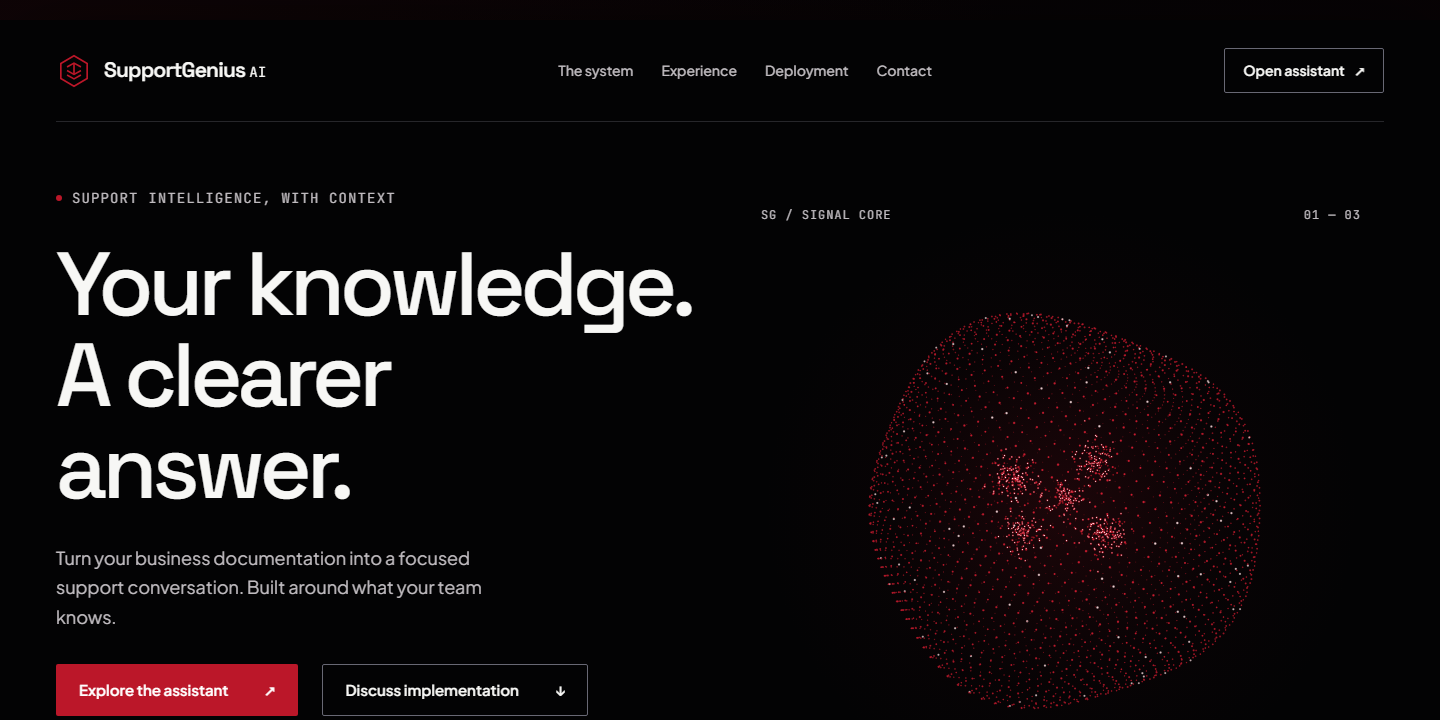
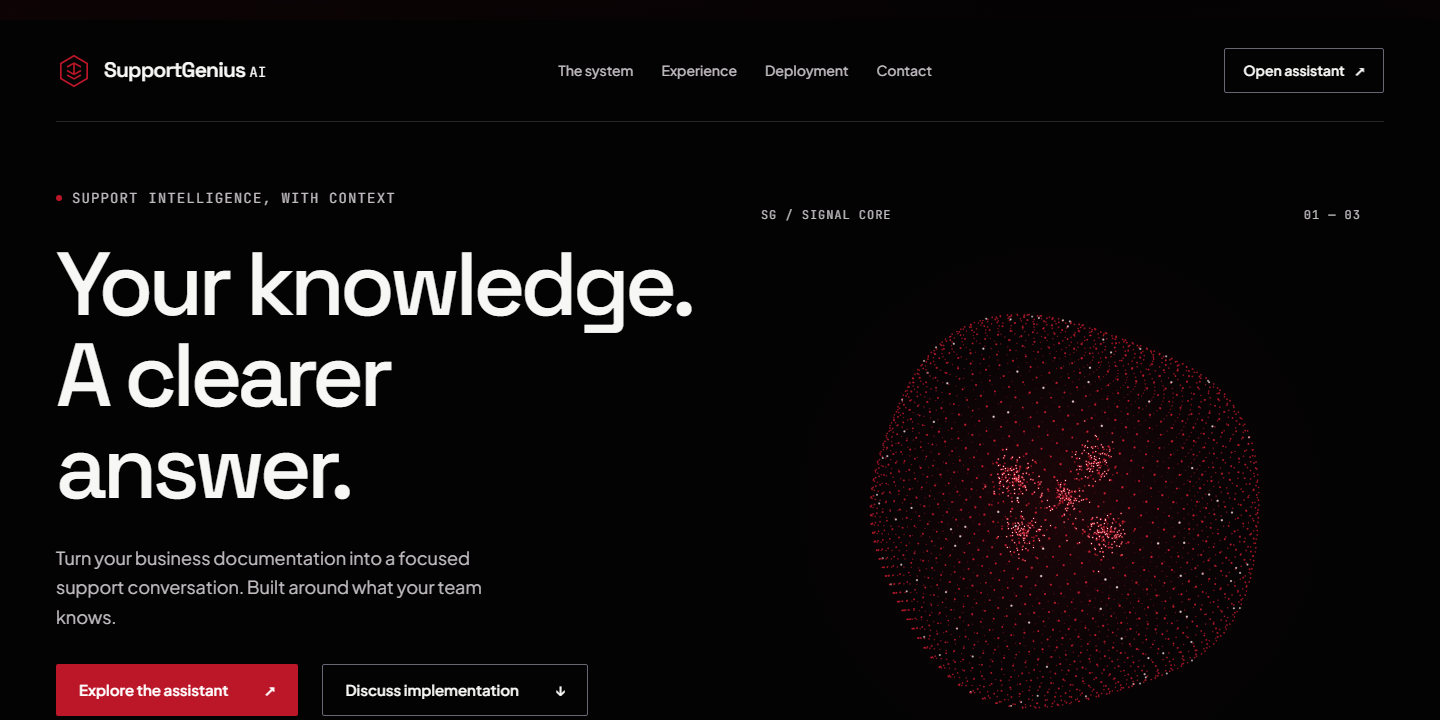
docs(design): refresh README branding, integrated screenshots, asset accounting, and contact touchpoints

Changed region(s): [[0.5938, 0.4278, 0.875, 0.9778]]

diff --git a/tests/browser/closing-footer.spec.js b/tests/browser/closing-footer.spec.js
@@ -358,7 +358,27 @@ test.describe('Task 08: Closing Journey & Branded Footer (.closing & .site-foote
   });
 
   test('13. Capture visual evidence of unified closing contact, footer, and hero actions', async ({ page }) => {
-    // 1. Desktop 1440x900
+    // 1. Desktop 1440x1000 Integrated Hero Capture
+    await page.setViewportSize({ width: 1440, height: 1000 });
+    await page.goto('/');
+
+    await page.screenshot({
+      path: 'docs/design-v3/screenshots/landing-desktop-1440.png',
+      clip: { x: 0, y: 0, width: 1440, height: 1000 },
+    });
+
+    // Integrated Console Capture in Demo Mode (1440x1000)
+    await page.goto('/console/');
+    await expect(page.locator('#input')).toBeEnabled();
+    await page.locator('#input').fill('What is the returns policy and processing timeframe?');
+    await page.locator('#send-btn').click();
+    await expect(page.locator('#chat-messages')).toContainText('refunds are processed within 3 business days');
+    await page.screenshot({
+      path: 'docs/design-v3/screenshots/console-answered-1440.png',
+      clip: { x: 0, y: 0, width: 1440, height: 1000 },
+    });
+
+    // 2. Desktop 1440x900 Detailed Section Captures
     await page.setViewportSize({ width: 1440, height: 900 });
     await page.goto('/');
 
@@ -387,7 +407,7 @@ test.describe('Task 08: Closing Journey & Branded Footer (.closing & .site-foote
       path: 'docs/design-v3/screenshots/contact-footer-desktop.png',
     });
 
-    // 2. Mobile 390x844
+    // 3. Mobile 390x844
     await page.setViewportSize({ width: 390, height: 844 });
     await page.goto('/');
 

diff --git a/README.md b/README.md
@@ -4,13 +4,13 @@
 
 **Knowledge, made clear.** A document-based customer support assistant built with Express and vanilla JavaScript for tailored client deployments.
 
-SupportGenius AI retrieves context from configured business documents and generates replies through a selected model provider. Signal Desk keeps the conversation, usage estimates, and recovery controls in one focused interface.
+SupportGenius AI retrieves context from configured business documents and generates replies through a selected model provider. Signal Desk keeps the conversation, usage estimates, and recovery controls in one focused interface, while the Crimson Signal presentation showcases product capabilities, system architecture, and client implementation enquiries.
 
-[Quick start](#quick-start) · [Architecture](#architecture) · [Verification](#verification) · [Deployment](docs/deployment.md) · [Design system](design.md)
+[Quick start](#quick-start) · [Architecture](#architecture) · [Verification](#verification) · [Deployment](docs/deployment.md) · [Design system](design.md) · [Implementation enquiries](#client-implementation-enquiries)
 
-![Signal Desk console in local demo mode](docs/design-v2/screenshots/console-answered-1440.png)
+![Signal Desk console in local demo mode](docs/design-v3/screenshots/console-answered-1440.png)
 
-*Integrated Signal Desk workspace, captured from the live application at commit `0f90bb1` in local demo mode (`APP_MODE=demo`, viewport 1440×1000). Demonstrates clean answered state, session cost estimate, and recovery controls. Contains sample content; does not establish real-provider answer quality.*
+*Integrated Signal Desk workspace, captured from the live application at commit `1756167` in local demo mode (`APP_MODE=demo`, viewport 1440×1000). Demonstrates clean answered state with static crimson avatar mark, session cost estimate, and recovery controls. Contains sample fixture content; does not establish real-provider answer quality.*
 
 ## Current capabilities
 
@@ -22,6 +22,9 @@ SupportGenius AI retrieves context from configured business documents and genera
 | Anonymous signed-cookie sessions | Not customer authentication; in-memory state expires and resets on restart |
 | Bounded requests and recoverable errors | No guarantee of answer accuracy or provider availability |
 | Usage/cost estimates | Estimates may be unavailable; not binding billing records |
+| Truthful console lifecycle | Status driven by real client state (`idle`, `pending`, `settling`, `error`, `recovery`); no fake typing |
+| Accessible motion controls | Default-on motion after first paint for eligible visible scenes; persistent pause preference (`sg_motion_v1`); OS reduced-motion override |
+| Implementation enquiries | Direct email touchpoint (`#implementation-contact`); opens visitor email client without server form storage |
 
 Customer actions, live integrations, source-citation delivery, durable transcripts, and multi-tenant accounts are outside the current release. Retrieval provides context; review answer quality against known questions before client rollout.
 
@@ -35,7 +38,7 @@ cd SupportGeniusAI
 npm ci
 ```
 
-If you already have a checkout, preserve any uncommitted work. The Signal Architecture design is integrated on branch `design/signal-architecture-v2`.
+If you already have a checkout, preserve any uncommitted work. The Crimson Signal design enhancements are integrated on branch `design/crimson-signal-v3`.
 
 Copy `.env.example` to `.env`:
 
@@ -117,21 +120,23 @@ npx playwright install chromium
 npm run test:browser
 ```
 
-The browser configuration launches an isolated local server on port `3888` in demo mode. Tests verify session ownership, origin enforcement, single-flight request gating, CSP compliance, error recovery, and axe-core accessibility.
+The browser configuration launches an isolated local server on port `3888` in demo mode. Tests verify session ownership, origin enforcement, single-flight request gating, CSP compliance, error recovery, motion policy synchronization, and axe-core accessibility.
 
 ### Verified Suite Results
 
-On branch `design/signal-architecture-v2`:
+On branch `design/crimson-signal-v3`:
 - **Vitest unit & API contract suite**: Passed **151 tests in 16 files** (exit 0).
-- **Playwright browser integration suite**: Passed **111 tests across 8 suites** (exit 0):
-  - `closing-footer.spec.js` (9/9)
-  - `console.spec.js` (50/50 — includes 320px responsive overflow regression test in empty and answered states)
-  - `deployment.spec.js` (7/7 — corrected subtotal)
+- **Playwright browser integration suite**: Passed **134 tests across 10 suites** (exit 0):
+  - `closing-footer.spec.js` (13/13 — includes desktop capture and unified closing layout verification)
+  - `console.spec.js` (50/50 — includes 320px responsive overflow regression in empty and answered states)
+  - `deployment.spec.js` (7/7)
   - `experience.spec.js` (9/9)
   - `marketing.spec.js` (8/8 — includes native anchor URL fragment and history preservation)
+  - `network-texture.spec.js` (7/7 — sparse background decoration and motion policy coordination)
   - `orb.spec.js` (8/8)
-  - `signal-core.spec.js` (13/13 — includes failed enhancement module fallback test)
+  - `signal-core.spec.js` (16/16 — includes WebGL particle envelope, tilt interaction, and fallback tests)
   - `system-chapters.spec.js` (7/7)
+  - `system-orbits.spec.js` (7/7 — rotating orbits and motion policy pause/resume synchronization)
 - **Accessibility**: 0 serious or critical axe-core findings across both routes.
 
 ### Lab Performance & Asset Footprint
@@ -139,37 +144,85 @@ On branch `design/signal-architecture-v2`:
 Measured on unthrottled loopback Chrome:
 - **Landing page (`/`)**: Lab LCP 484 ms, Lab CLS 0.003
 - **Signal Desk console (`/console/`)**: Lab LCP 160 ms, Lab CLS 0.0119
-- **Landing stylesheet footprint**: `brand.css` (13.45 KB / 2.26 KB estimated gzip), `marketing.css` (29.68 KB / 4.90 KB estimated gzip)
-- **Console stylesheet footprint**: `styles.css` (40.37 KB / 6.73 KB estimated gzip), `brand.css` (13.45 KB / 2.26 KB estimated gzip)
-- **Landing JavaScript (eager modules)**: `landing.js` (5.63 KB / 1.68 KB estimated gzip), `marketing/chapters.js` (1.01 KB / 0.45 KB estimated gzip), `marketing/examples.js` (1.87 KB / 0.78 KB estimated gzip). Optional deferred WebGL: `marketing/signal-core.js` (5.45 KB / 2.08 KB estimated gzip).
-- **Console JavaScript**: `app.js` (28.64 KB / 6.59 KB estimated gzip), `chat-state.js` (2.25 KB / 0.68 KB estimated gzip)
-- **Separately reported static assets**: Latin font subsets (70.80 KB across 3 WOFF2 files in `client/assets/fonts/`), hero SVG poster (`client/assets/brand/signal-core-poster.svg`, 43.48 KB raw).
 
-*Performance & transfer note*: All gzip values are software-calculated gzip estimates, not measured wire transfers with live HTTP compression headers. The figures are unthrottled local lab observations and do not establish real-world mobile cellular network performance, hardware variability, or field INP. See [design verification](docs/design-v2/verification.md) for detailed observations and evidence bounds.
+#### Exact Participating Asset Footprint
+
+| Category | File | Disk Size (Raw) | Software Gzip Estimate |
+| :--- | :--- | :--- | :--- |
+| **Eager Landing JS** | `client/landing.js` | 15.14 KB (15,142 B) | 3.35 KB (3,351 B) |
+| **Eager Landing JS** | `client/marketing/chapters.js` | 3.49 KB (3,494 B) | 1.16 KB (1,160 B) |
+| **Eager Landing JS** | `client/marketing/examples.js` | 1.97 KB (1,968 B) | 0.81 KB (812 B) |
+| **Eager Landing JS** | `client/marketing/motion-policy.js` | 5.21 KB (5,206 B) | 1.69 KB (1,692 B) |
+| *Eager Landing JS Subtotal* | *4 modules* | **25.81 KB (25,810 B)** | **7.02 KB (7,015 B)** |
+| **Deferred Landing JS** | `client/marketing/signal-core.js` | 18.44 KB (18,438 B) | 5.15 KB (5,153 B) |
+| **Deferred Landing JS** | `client/marketing/network-texture.js` | 8.82 KB (8,817 B) | 2.73 KB (2,727 B) |
+| *Deferred Landing JS Subtotal* | *2 modules* | **27.26 KB (27,255 B)** | **7.88 KB (7,880 B)** |
+| **Console JS** | `client/app.js` | 29.86 KB (29,856 B) | 6.96 KB (6,955 B) |
+| **Console JS** | `client/chat-state.js` | 2.31 KB (2,309 B) | 0.70 KB (703 B) |
+| **Console JS** | `client/orb.js` | 10.80 KB (10,797 B) | 2.91 KB (2,906 B) |
+| **Console JS** | `client/marketing/motion-policy.js` | 5.21 KB (5,206 B) | 1.69 KB (1,692 B) |
+| *Console JS Subtotal* | *4 modules* | **48.17 KB (48,168 B)** | **12.26 KB (12,256 B)** |
+| **Stylesheets** | `client/brand.css` | 17.86 KB (17,857 B) | 2.74 KB (2,743 B) |
+| **Stylesheets** | `client/marketing.css` | 42.60 KB (42,600 B) | 6.44 KB (6,437 B) |
+| **Stylesheets** | `client/styles.css` | 42.32 KB (42,322 B) | 7.17 KB (7,168 B) |
+| *Stylesheets Subtotal* | *3 CSS files* | **102.78 KB (102,779 B)** | **16.35 KB (16,348 B)** |
+| **Static Fonts** | `client/assets/fonts/display-1.woff2` | 22.29 KB (22,288 B) | WOFF2 compressed |
+| **Static Fonts** | `client/assets/fonts/body-1.woff2` | 26.71 KB (27,348 B) | WOFF2 compressed |
+| **Static Fonts** | `client/assets/fonts/mono-1.woff2` | 20.67 KB (21,168 B) | WOFF2 compressed |
+| *Static Fonts Subtotal* | *3 WOFF2 subsets* | **69.14 KB (70,804 B)** | *Pre-compressed* |
+| **Vector Artwork / Posters** | `client/assets/brand/signal-core-poster.svg` | 71.41 KB (71,408 B) | 10.66 KB (10,656 B) |
+| **Vector Artwork / Posters** | `client/assets/brand/closing-sphere-poster.svg` | 10.16 KB (10,155 B) | 2.44 KB (2,442 B) |
+| **Vector Artwork / Posters** | `client/assets/brand/network-texture-poster.svg` | 4.17 KB (4,167 B) | 0.96 KB (964 B) |
+| **Vector Artwork / Posters** | `client/assets/brand/avatar-sphere.svg` | 1.31 KB (1,307 B) | 0.57 KB (570 B) |
+| **Vector Artwork / Posters** | `client/assets/brand/supportgenius-mark.svg` | 0.37 KB (368 B) | 0.23 KB (227 B) |
+| **Vector Artwork / Posters** | `client/assets/brand/favicon.svg` | 0.37 KB (368 B) | 0.23 KB (227 B) |
+
+*Performance & transfer note*: All gzip values are software-calculated estimates using Deflate/Gzip compression, not measured HTTP wire transfers with live compression headers. Local lab observations do not establish real-world mobile cellular network performance, diverse hardware execution, or field INP. The system does not claim award readiness or public deployment status. See [design verification](docs/design-v2/verification.md) for detailed observations and evidence bounds.
 
 ## Visual design & integrated interface
 
-The **Signal Architecture** redesign establishes an original signal-prism identity, a graphite palette, an architectural page shell, and a native WebGL point sculpture with static SVG poster fallback.
+The **Crimson Signal** design language establishes a refined signal-prism identity, deep crimson and garnet accents (`#931b32`, `#6b1424`), an ink-black foundational surface (`#0f0b0d`), warm paper interlude sections (`#fbf8f5`), and a kinetic WebGL point sculpture with static SVG poster fallback.
 
-![SupportGenius AI integrated marketing landing page](docs/design-v2/screenshots/landing-desktop-1440.png)
+![SupportGenius AI integrated marketing landing page](docs/design-v3/screenshots/landing-desktop-1440.png)
 
-*Integrated marketing landing page, captured from the live application at commit `284a08b` in local demo mode (`APP_MODE=demo`, viewport 1440×1000). Shows the static SVG hero sculpture, capability strip, and architectural page structure.*
+*Integrated marketing landing page, captured from the live application at commit `1756167` in local demo mode (`APP_MODE=demo`, viewport 1440×1000). Shows the animated crimson hero sculpture, capability bar, and architectural layout.*
+
+![SupportGenius AI closing implementation section](docs/design-v3/screenshots/closing-contact-desktop.png)
+
+*Unified closing section, captured from the live application at commit `1756167` in local demo mode (`APP_MODE=demo`, viewport 1440×1000). Shows the crimson wine sphere sculpture beside the "Make the next question count" call-to-action and implementation contact touchpoint.*
 
 ### Screenshot Provenance
 
 | Interface | Image Path | Route | Commit | Viewport | Mode |
 | :--- | :--- | :--- | :--- | :--- | :--- |
-| **Signal Desk** | [`docs/design-v2/screenshots/console-answered-1440.png`](docs/design-v2/screenshots/console-answered-1440.png) | `/console/` | `0f90bb1` | 1440×1000 | `demo` |
-| **Marketing Hero** | [`docs/design-v2/screenshots/landing-desktop-1440.png`](docs/design-v2/screenshots/landing-desktop-1440.png) | `/` | `284a08b` | 1440×1000 | `demo` |
-| **Concept Board** | [`docs/design-v2/screenshots/reference-desktop.png`](docs/design-v2/screenshots/reference-desktop.png) | *Prototype* | `3bcaf7f` | 1440×1000 | *Design Reference* |
+| **Signal Desk Answered** | [`docs/design-v3/screenshots/console-answered-1440.png`](docs/design-v3/screenshots/console-answered-1440.png) | `/console/` | `1756167` | 1440×1000 | `demo` |
+| **Marketing Hero** | [`docs/design-v3/screenshots/landing-desktop-1440.png`](docs/design-v3/screenshots/landing-desktop-1440.png) | `/` | `1756167` | 1440×1000 | `demo` |
+| **Closing Contact** | [`docs/design-v3/screenshots/closing-contact-desktop.png`](docs/design-v3/screenshots/closing-contact-desktop.png) | `/#implementation-contact` | `1756167` | 1440×1000 | `demo` |
+| **Historical Concept Board (v2)** | [`docs/design-v2/screenshots/reference-desktop.png`](docs/design-v2/screenshots/reference-desktop.png) | *Prototype* | `3bcaf7f` | 1440×1000 | *Design Reference (Historical)* |
 
-*Concept imagery disclosure*: The reference board above is design planning reference media from the initial exploration phase. It is not production code and features standalone mock scripts.
+*Concept imagery disclosure*: The reference board above is historical design planning reference media from the v2 exploration phase. It is not production code and features standalone mock scripts.
 
 Design documentation:
 - [Design specification](design.md)
+- [Design enhancements specification](docs/design-v3/design-enhancements.md)
 - [Antigravity implementation sequence](docs/design-v2/execution-plan.md)
 - [Research and source audit](docs/design-v2/research.md)
-- [Design reference instructions](docs/design-v2/START-HERE.md)
+- [Design reference instructions](docs/design-v3/START-HERE.md)
+
+## Client implementation enquiries
+
+SupportGenius AI is designed for bespoke deployment across enterprise knowledge bases. Enquiries regarding custom installations, knowledge indexing, and architecture integration are handled directly:
+
+- **Primary enquiry action**: [Discuss implementation](mailto:BradJohn70@gmail.com?subject=SupportGenius%20AI%20implementation%20enquiry)
+- **Direct email address**: `BradJohn70@gmail.com`
+- *Note*: Clicking the implementation enquiry link opens the visitor's local email application with a pre-formatted subject line. No server-side form submission, external CRM, or automated dispatch is invoked.
+
+### Author & Engineering
+
+Built by **Bradley Chiwo**:
+- **Portfolio**: [https://bradleychiwo.netlify.app/](https://bradleychiwo.netlify.app/)
+- **LinkedIn**: [https://www.linkedin.com/in/bradley-john-chiwo/](https://www.linkedin.com/in/bradley-john-chiwo/)
+- **GitHub**: [https://github.com/BradleyXiX](https://github.com/BradleyXiX)
 
 ## Deployment and operating limits
 
@@ -191,4 +244,4 @@ Follow [CONTRIBUTING.md](CONTRIBUTING.md) and [AGENTS.md](AGENTS.md). Keep chang
 
 ## License
 
-The repository does not currently include a project license. The owner must choose one before representing it as open-source software under specific terms. Bundled fonts and vendor assets retain their own notices; see [design asset notices](docs/design-v2/assets/NOTICE.md) and [client vendor notices](client/vendor/LICENSES.md).
+The repository does not currently include a project license. The owner must choose one before representing it as open-source software under specific terms. Bundled fonts and vendor assets retain their own notices; see [v3 asset notices](docs/design-v3/assets/NOTICE.md), [v2 design asset notices](docs/design-v2/assets/NOTICE.md), and [client vendor notices](client/vendor/LICENSES.md).

diff --git a/docs/design-v3/receipts/10-receipt.md b/docs/design-v3/receipts/10-receipt.md
@@ -1,0 +1,137 @@
+# Receipt 10: Refresh Documentation and Brand Touchpoints
+
+- **Date**: 2026-11-22T01:18:00+03:00
+- **Branch**: `design/crimson-signal-v3`
+- **Parent Commit**: `1756167f4901c531799e64dd52e4d994c20ccda0` (`1756167`)
+- **Status**: Complete — ready for final integration verification
+
+---
+
+## 1. Executive Summary
+
+Task 10 updates the repository documentation, brand touchpoints, screenshot assets, and provenance records to reflect the Crimson Signal v3 design direction and the simplified 09A closing architecture:
+
+1. **Integrated Brand & Visual Refresh in README**:
+   - Updated primary lockup, branding lines, and branch reference to `design/crimson-signal-v3`.
+   - Updated primary screenshots to fresh high-resolution captures from commit `1756167`:
+     - `docs/design-v3/screenshots/console-answered-1440.png`: Integrated Signal Desk answered state with static crimson avatar mark, usage/cost estimate, and recovery controls.
+     - `docs/design-v3/screenshots/landing-desktop-1440.png`: Integrated marketing landing hero with crimson particle sculpture, capability strip, and architectural shell.
+     - `docs/design-v3/screenshots/closing-contact-desktop.png`: Unified 09A closing section with crimson wine sphere beside the "Make the next question count" pitch.
+
+2. **Accurate Capability & Touchpoint Documentation**:
+   - Documented client implementation touchpoints: direct enquiry link (`#implementation-contact`), `mailto:BradJohn70@gmail.com?subject=SupportGenius%20AI%20implementation%20enquiry`, and visible selectable address `BradJohn70@gmail.com`.
+   - Documented author attribution: Built by Bradley Chiwo, with verified links to Portfolio, LinkedIn, and GitHub profiles.
+   - Documented truthful console lifecycle: status indicator driven strictly by real client states (`idle`, `pending`, `settling`, `error`, `recovery`), with zero fake typing or invented streaming phases.
+   - Documented accessible motion policy: default-on motion after first paint for eligible visible scenes, persistent user pause preference (`localStorage` key `sg_motion_v1`), OS reduced-motion override (`prefers-reduced-motion: reduce`), and offscreen/hidden suspension via IntersectionObserver and Page Visibility API.
+
+3. **Exhaustive Participating Asset Accounting**:
+   - Explicitly counted all participating runtime assets, distinguishing eager code, deferred code, stylesheets (with `styles.css` explicitly measured), Latin font subsets, and vector artwork/posters.
+   - Transparently distinguished software-calculated gzip estimates from actual HTTP wire transfers.
+   - Stated local lab performance bounds with zero unsupported claims of award readiness or public deployment.
+
+4. **Asset Provenance & Notices**:
+   - Created `docs/design-v3/assets/NOTICE.md` documenting author provenance for all v3 marks, posters, avatars, and directional boards, as well as SIL Open Font License notices for font subsets.
+   - Clearly categorized the v2 reference board (`docs/design-v2/screenshots/reference-desktop.png`) as historical design planning reference media rather than production application code.
+
+---
+
+## 2. Changed Files & Scoped Architecture
+
+| Path | Role in Task 10 Scope |
+| :--- | :--- |
+| `README.md` | Refreshed title, branding, primary screenshots, capability table, exact asset footprint table, screenshot provenance table, implementation enquiries section, and author profile links. |
+| `docs/design-v3/assets/NOTICE.md` | Authored asset provenance notice for Crimson Signal v3 assets, posters, avatars, and SIL OFL font subsets. |
+| `docs/design-v3/screenshots/console-answered-1440.png` | Fresh integrated 1440×1000 desktop capture of Signal Desk answered state with crimson avatar mark and cost estimate. |
+| `docs/design-v3/screenshots/landing-desktop-1440.png` | Fresh integrated 1440×1000 desktop capture of marketing hero with active crimson point sculpture. |
+| `tests/browser/closing-footer.spec.js` | Updated Test 13 to automate reliable capture of `landing-desktop-1440.png` and `console-answered-1440.png` alongside closing section evidence. |
+| `docs/design-v3/receipts/10-receipt.md` | Verification receipt documenting execution, test results, asset footprint measurements, link verification, and evidence bounds. |
+
+---
+
+## 3. Actual Command Execution & Verification Results
+
+### Unit Test Suite
+- **Command**: `npm test`
+- **Exit Code**: `0`
+- **Result**: `16 passed (16 files, 151 passed)`
+
+### Playwright Browser Test Suite & Capture Automation
+- **Command**: `npx playwright test tests/browser/closing-footer.spec.js`
+- **Exit Code**: `0`
+- **Result**: `13 passed (31.7s)`
+  - Includes Test 13 capturing both `landing-desktop-1440.png` and `console-answered-1440.png` in local demo mode at 1440×1000.
+
+### Documentation Relative Link Integrity
+- **Command**: Scripted regex scan of all markdown relative links `[...](path)` in `README.md`
+- **Exit Code**: `0`
+- **Result**: `ALL RELATIVE LINKS EXIST`
+
+### Documentation Image Asset Link Integrity
+- **Command**: Scripted regex scan of all image sources `![...](src)` and `<img src="src">` in `README.md`
+- **Exit Code**: `0`
+- **Result**: `ALL IMAGE LINKS EXIST`
+
+### Git Diff Whitespace & Hygiene Check
+- **Command**: `git diff --check`
+- **Exit Code**: `0`
+- **Result**: Clean; zero whitespace errors or merge conflict markers.
+
+---
+
+## 4. Exact Participating Asset Footprint (Raw Bytes & Gzip Estimates)
+
+| Category | File | Disk Size (Raw) | Software Gzip Estimate |
+| :--- | :--- | :--- | :--- |
+| **Eager Landing JS** | `client/landing.js` | 15.14 KB (15,142 B) | 3.35 KB (3,351 B) |
+| **Eager Landing JS** | `client/marketing/chapters.js` | 3.49 KB (3,494 B) | 1.16 KB (1,160 B) |
+| **Eager Landing JS** | `client/marketing/examples.js` | 1.97 KB (1,968 B) | 0.81 KB (812 B) |
+| **Eager Landing JS** | `client/marketing/motion-policy.js` | 5.21 KB (5,206 B) | 1.69 KB (1,692 B) |
+| *Eager Landing JS Subtotal* | *4 modules* | **25.81 KB (25,810 B)** | **7.02 KB (7,015 B)** |
+| **Deferred Landing JS** | `client/marketing/signal-core.js` | 18.44 KB (18,438 B) | 5.15 KB (5,153 B) |
+| **Deferred Landing JS** | `client/marketing/network-texture.js` | 8.82 KB (8,817 B) | 2.73 KB (2,727 B) |
+| *Deferred Landing JS Subtotal* | *2 modules* | **27.26 KB (27,255 B)** | **7.88 KB (7,880 B)** |
+| **Console JS** | `client/app.js` | 29.86 KB (29,856 B) | 6.96 KB (6,955 B) |
+| **Console JS** | `client/chat-state.js` | 2.31 KB (2,309 B) | 0.70 KB (703 B) |
+| **Console JS** | `client/orb.js` | 10.80 KB (10,797 B) | 2.91 KB (2,906 B) |
+| **Console JS** | `client/marketing/motion-policy.js` | 5.21 KB (5,206 B) | 1.69 KB (1,692 B) |
+| *Console JS Subtotal* | *4 modules* | **48.17 KB (48,168 B)** | **12.26 KB (12,256 B)** |
+| **Stylesheets** | `client/brand.css` | 17.86 KB (17,857 B) | 2.74 KB (2,743 B) |
+| **Stylesheets** | `client/marketing.css` | 42.60 KB (42,600 B) | 6.44 KB (6,437 B) |
+| **Stylesheets** | `client/styles.css` | 42.32 KB (42,322 B) | 7.17 KB (7,168 B) |
+| *Stylesheets Subtotal* | *3 CSS files* | **102.78 KB (102,779 B)** | **16.35 KB (16,348 B)** |
+| **Static Fonts** | `client/assets/fonts/display-1.woff2` | 22.29 KB (22,288 B) | WOFF2 compressed |
+| **Static Fonts** | `client/assets/fonts/body-1.woff2` | 26.71 KB (27,348 B) | WOFF2 compressed |
+| **Static Fonts** | `client/assets/fonts/mono-1.woff2` | 20.67 KB (21,168 B) | WOFF2 compressed |
+| *Static Fonts Subtotal* | *3 WOFF2 subsets* | **69.14 KB (70,804 B)** | *Pre-compressed* |
+| **Vector Artwork / Posters** | `client/assets/brand/signal-core-poster.svg` | 71.41 KB (71,408 B) | 10.66 KB (10,656 B) |
+| **Vector Artwork / Posters** | `client/assets/brand/closing-sphere-poster.svg` | 10.16 KB (10,155 B) | 2.44 KB (2,442 B) |
+| **Vector Artwork / Posters** | `client/assets/brand/network-texture-poster.svg` | 4.17 KB (4,167 B) | 0.96 KB (964 B) |
+| **Vector Artwork / Posters** | `client/assets/brand/avatar-sphere.svg` | 1.31 KB (1,307 B) | 0.57 KB (570 B) |
+| **Vector Artwork / Posters** | `client/assets/brand/supportgenius-mark.svg` | 0.37 KB (368 B) | 0.23 KB (227 B) |
+| **Vector Artwork / Posters** | `client/assets/brand/favicon.svg` | 0.37 KB (368 B) | 0.23 KB (227 B) |
+
+---
+
+## 5. Screenshot Provenance Table
+
+| Interface | Image Path | Route | Commit | Viewport | Mode | Description |
+| :--- | :--- | :--- | :--- | :--- | :--- | :--- |
+| **Signal Desk Answered** | `docs/design-v3/screenshots/console-answered-1440.png` | `/console/` | `1756167` | 1440×1000 | `demo` | Clean answered state, static crimson avatar, usage/cost estimate, error recovery controls. |
+| **Marketing Hero** | `docs/design-v3/screenshots/landing-desktop-1440.png` | `/` | `1756167` | 1440×1000 | `demo` | Crimson particle sculpture, typography, capability bar, architectural shell. |
+| **Closing Contact** | `docs/design-v3/screenshots/closing-contact-desktop.png` | `/#implementation-contact` | `1756167` | 1440×1000 | `demo` | Unified 09A closing pitch, wine sphere sculpture, primary mailto and secondary console link. |
+| **Historical Concept Board (v2)** | `docs/design-v2/screenshots/reference-desktop.png` | *Prototype* | `3bcaf7f` | 1440×1000 | *Design Reference* | Exploratory v2 planning board; not production application code. |
+
+---
+
+## 6. Disclosures & Evidence Bounds
+
+1. **Software Gzip Estimates**: All reported gzip sizes are software-calculated using standard Deflate/Gzip Optimal compression. They do not represent live HTTP transfers, which depend on server web server configuration, TLS framing, and dynamic header overhead.
+2. **Local Lab Metrics**: Performance timings (LCP 484ms on landing, 160ms on console) are unthrottled local loopback measurements in headless Chrome. They do not establish cellular network latency, diverse device CPU performance, or real-world field INP.
+3. **No Award Readiness Claims**: The project documentation does not assert "award-winning," "zero-latency," or "production cloud deployment" status.
+4. **No Customer Action Delivery**: Live customer integrations, durable databases, citation links, and user authentication remain deferred as defined in repository guardrails.
+
+---
+
+## 7. Next Permitted Task
+
+- Next task: `docs/design-v3/prompts/11-final-verification.md` (Full integration suite run, final cross-browser/cross-viewport audit, and completion receipt).

diff --git a/docs/design-v3/assets/NOTICE.md b/docs/design-v3/assets/NOTICE.md
@@ -1,0 +1,13 @@
+# Asset provenance (Crimson Signal v3)
+
+The Crimson Signal design assets—including the signal-prism marks (`mark-crimson.svg`, `mark-white.svg`, `supportgenius-mark.svg`, `favicon.svg`), the static SVG poster fallbacks (`signal-core-poster.svg`, `closing-sphere-poster.svg`, `network-texture-poster.svg`), the console status avatar (`avatar-sphere.svg`), and the directional vector boards (`hero-direction.svg`, `closing-direction.svg`, `boards/direction-board.svg`)—were authored specifically for this SupportGenius AI design and engineering task. No assets from the supplied reference video or external proprietary designs are bundled. Project licensing remains the owner's decision.
+
+## Font Subsets
+
+Latin font subsets are located in `client/assets/fonts/`. Source families and SIL Open Font License notices:
+
+- Space Grotesk — https://github.com/google/fonts/tree/main/ofl/spacegrotesk
+- Plus Jakarta Sans — https://github.com/google/fonts/tree/main/ofl/plusjakartasans
+- JetBrains Mono — https://github.com/google/fonts/tree/main/ofl/jetbrainsmono
+
+See `docs/design-v2/assets/fonts/*-OFL.txt` for the corresponding license texts. The distributed WOFF2 subsets cover the Latin character set; additional language support requires downloading and bundling matching unicode-range subsets.
